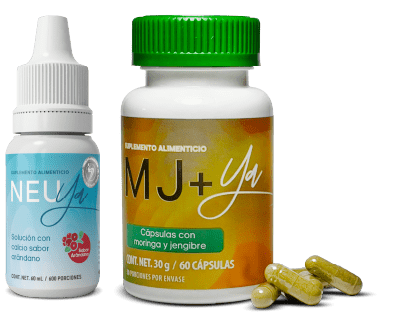
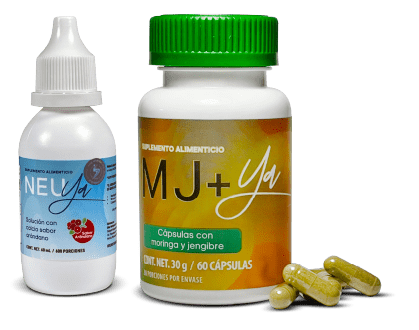
Se cambio las imagenes de los duos

diff --git a/index.html b/index.html
@@ -356,7 +356,7 @@
                         </div>
 
                     </div>
-                    <a href="./html/productos/Siluetabs.html" class="boton-explorar ">Explorar más</a>
+                    <a href="./html/productos/DUO-D-xYa+SiluetabsYa.html" class="boton-explorar ">Explorar más</a>
                 </div>
 
                 <div class="col-12 col-sm-12 col-md-6 col-lg-6 col-xl-6 div-producto-derecho div-Tejoforte ">
